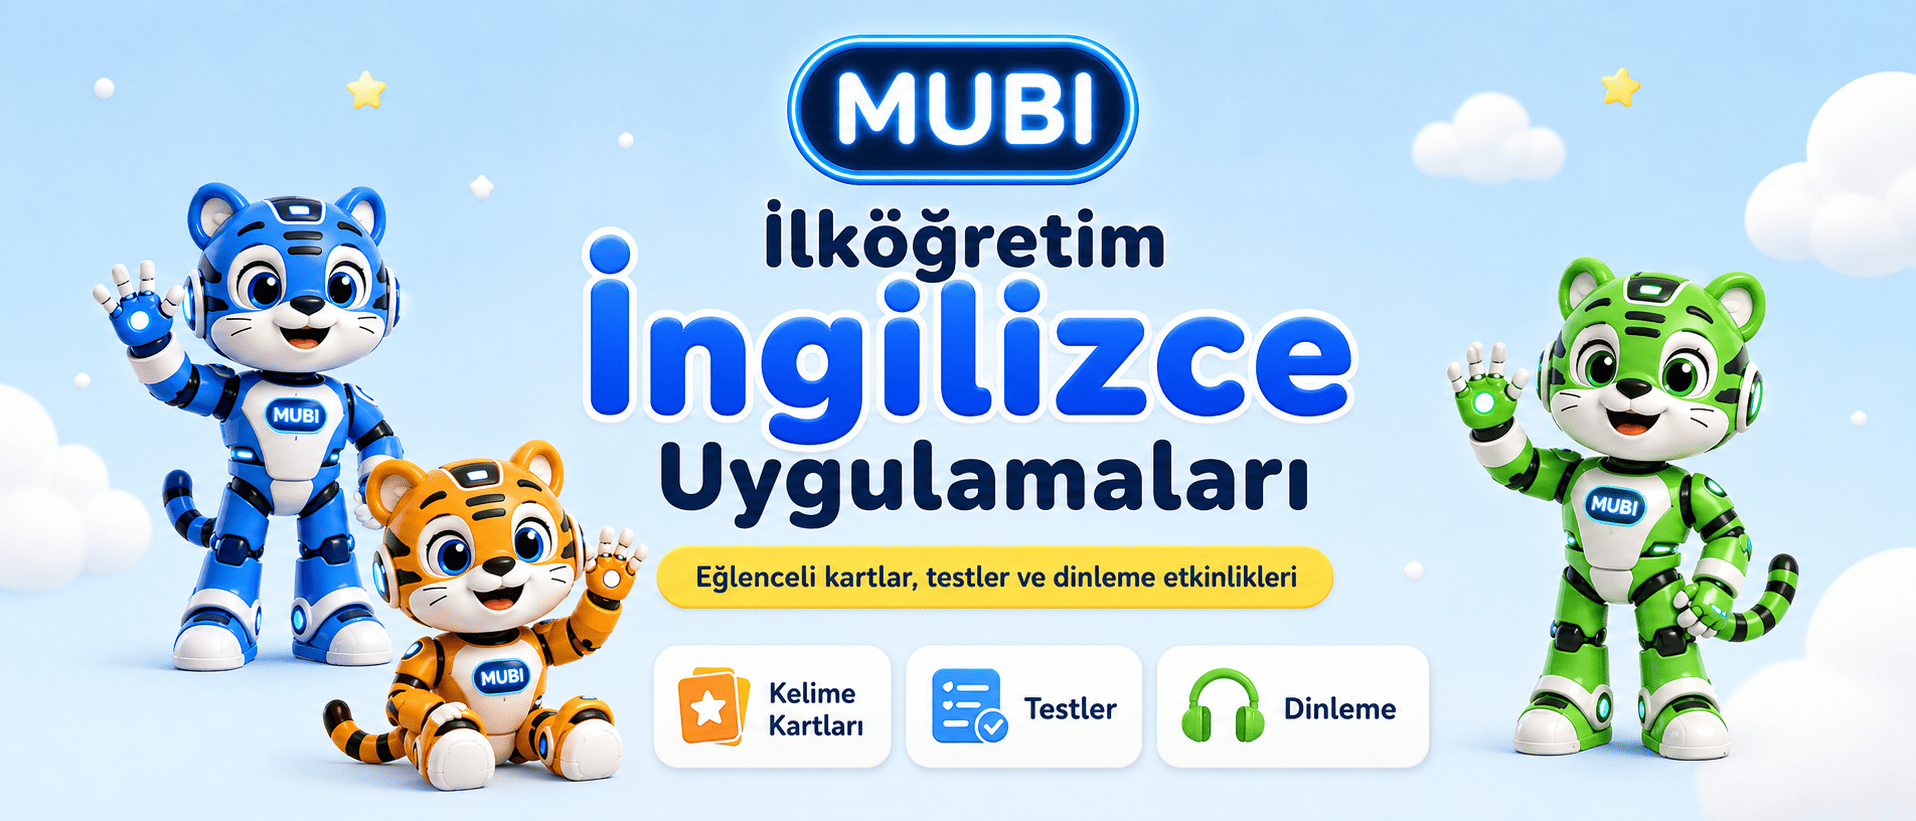
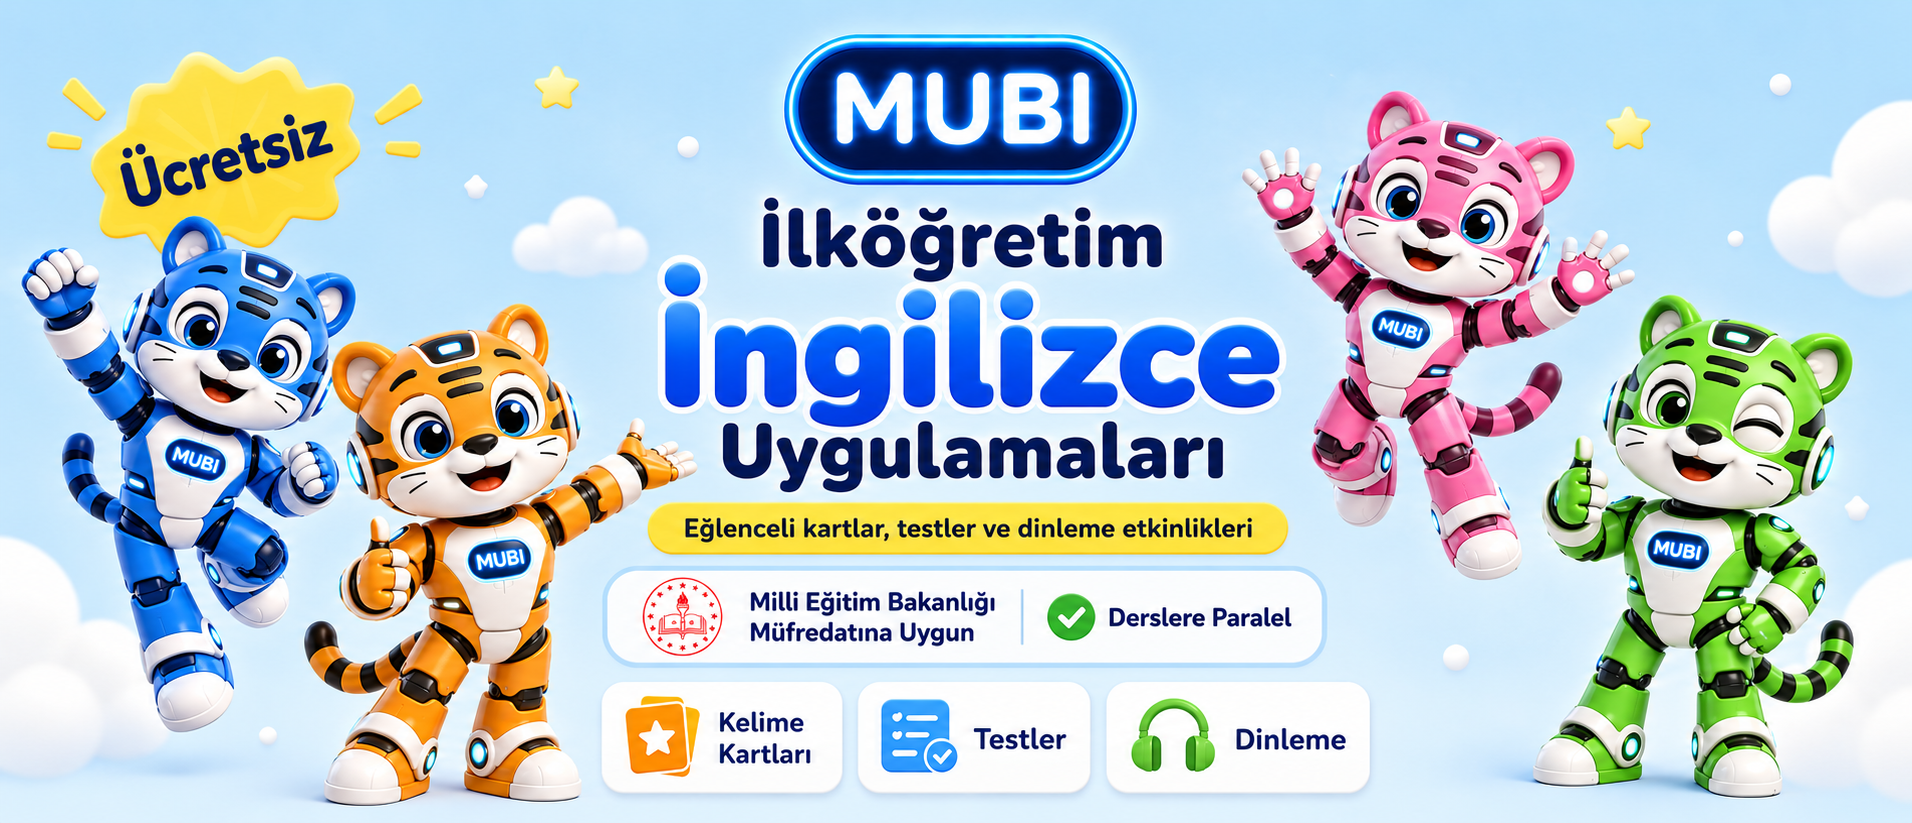
Improve MUBI homepage SEO

diff --git a/index.html b/index.html
@@ -2,46 +2,194 @@
 <html lang="tr">
 <head>
   <meta charset="UTF-8">
+
+  <!-- Mobile -->
   <meta name="viewport" content="width=device-width, initial-scale=1, viewport-fit=cover">
+
+  <!-- Primary SEO -->
+  <title>MUBİ | Ücretsiz İlköğretim İngilizce Uygulamaları</title>
+
+  <meta
+    name="description"
+    content="MUBİ ile 2, 3, 4, 5, 6, 7 ve 8. sınıf öğrencileri için ücretsiz İngilizce uygulamalarını keşfet. MEB müfredatına uygun, derslere paralel kelime, test ve İngilizce öğrenme etkinlikleri."
+  >
+
+  <meta
+    name="robots"
+    content="index, follow, max-image-preview:large, max-snippet:-1, max-video-preview:-1"
+  >
+
+  <meta
+    name="googlebot"
+    content="index, follow, max-image-preview:large, max-snippet:-1, max-video-preview:-1"
+  >
+
+  <!-- Canonical -->
+  <link rel="canonical" href="https://mubiapp.vercel.app/">
+
+  <!-- Theme -->
   <meta name="theme-color" content="#eaf6ff">
-  <meta name="description" content="MUBİ İlköğretim İngilizce Uygulamaları">
-  <title>MUBİ İngilizce Uygulamaları</title>
+
+  <!-- Open Graph / Facebook / WhatsApp -->
+  <meta property="og:type" content="website">
+  <meta property="og:locale" content="tr_TR">
+  <meta property="og:site_name" content="MUBİ">
+
+  <meta
+    property="og:title"
+    content="MUBİ | Ücretsiz İlköğretim İngilizce Uygulamaları"
+  >
+
+  <meta
+    property="og:description"
+    content="2. sınıftan 8. sınıfa kadar öğrenciler için ücretsiz, MEB müfredatına uygun ve derslere paralel İngilizce öğrenme uygulamaları."
+  >
+
+  <meta property="og:url" content="https://mubiapp.vercel.app/">
+
+  <meta
+    property="og:image"
+    content="https://mubiapp.vercel.app/assets/mubi-banner.png"
+  >
+
+  <meta
+    property="og:image:alt"
+    content="MUBİ İlköğretim İngilizce Uygulamaları"
+  >
+
+  <!-- X / Twitter -->
+  <meta name="twitter:card" content="summary_large_image">
+
+  <meta
+    name="twitter:title"
+    content="MUBİ | Ücretsiz İlköğretim İngilizce Uygulamaları"
+  >
+
+  <meta
+    name="twitter:description"
+    content="2-8. sınıf öğrencileri için ücretsiz ve MEB müfredatına uygun İngilizce öğrenme uygulamaları."
+  >
+
+  <meta
+    name="twitter:image"
+    content="https://mubiapp.vercel.app/assets/mubi-banner.png"
+  >
+
+  <!-- Structured Data / Schema.org -->
+  <script type="application/ld+json">
+  {
+    "@context": "https://schema.org",
+    "@type": "WebSite",
+    "name": "MUBİ",
+    "alternateName": "MUBİ İlköğretim İngilizce Uygulamaları",
+    "url": "https://mubiapp.vercel.app/",
+    "description": "2. sınıftan 8. sınıfa kadar öğrenciler için ücretsiz, MEB müfredatına uygun ve derslere paralel İngilizce öğrenme uygulamaları.",
+    "inLanguage": "tr-TR"
+  }
+  </script>
+
+  <!-- CSS -->
   <link rel="stylesheet" href="style.css">
 </head>
 
 <body>
+
   <main class="page">
+
     <div class="banner-wrap">
       <div class="banner">
-        <img src="assets/mubi-banner.png" alt="MUBİ İlköğretim İngilizce Uygulamaları">
+        <img
+          src="assets/mubi-banner.png"
+          alt="MUBİ ücretsiz ilköğretim İngilizce uygulamaları - 2. sınıftan 8. sınıfa kadar"
+        >
       </div>
     </div>
 
-    <section class="apps">
+    <section class="apps" aria-labelledby="main-title">
+
       <div class="section-head">
-        <h1>Sınıfını seç</h1>
-        <p>İngilizce uygulamanı seç ve hemen kullanmaya başla.</p>
+
+        <h1 id="main-title">
+          Ücretsiz İlköğretim İngilizce Uygulamaları
+        </h1>
+
+        <p>
+          MUBİ ile 2, 3, 4, 5, 6, 7 ve 8. sınıf öğrencileri için
+          hazırlanan İngilizce uygulamalarını ücretsiz kullan.
+          MEB müfredatına uygun ve derslere paralel içeriklerle
+          İngilizce kelimeleri öğren, test çöz ve İngilizceni geliştir.
+        </p>
+
       </div>
 
       <div id="appGrid" class="grid">
+
         <div class="loading">
           <div class="spinner"></div>
           Uygulamalar yükleniyor...
         </div>
+
       </div>
+
     </section>
+
   </main>
 
-  <div id="storeModal" class="modal" role="dialog" aria-modal="true" aria-labelledby="modalAppName">
+  <div
+    id="storeModal"
+    class="modal"
+    role="dialog"
+    aria-modal="true"
+    aria-labelledby="modalAppName"
+  >
+
     <div class="modal-box">
-      <img id="modalAppIcon" class="modal-icon" src="" alt="">
+
+      <img
+        id="modalAppIcon"
+        class="modal-icon"
+        src=""
+        alt=""
+      >
+
       <h2 id="modalAppName">MUBİ</h2>
-      <a id="appleStoreButton" class="store-button apple" href="#" target="_blank" rel="noopener noreferrer">App Store</a>
-      <a id="googleStoreButton" class="store-button google" href="#" target="_blank" rel="noopener noreferrer">Google Play</a>
-      <button id="closeModal" class="store-button close" type="button">Kapat</button>
+
+      <a
+        id="appleStoreButton"
+        class="store-button apple"
+        href="#"
+        target="_blank"
+        rel="noopener noreferrer"
+        aria-label="MUBİ uygulamasını App Store'dan indir"
+      >
+        App Store
+      </a>
+
+      <a
+        id="googleStoreButton"
+        class="store-button google"
+        href="#"
+        target="_blank"
+        rel="noopener noreferrer"
+        aria-label="MUBİ uygulamasını Google Play'den indir"
+      >
+        Google Play
+      </a>
+
+      <button
+        id="closeModal"
+        class="store-button close"
+        type="button"
+      >
+        Kapat
+      </button>
+
     </div>
+
   </div>
 
+  <!-- JavaScript -->
   <script src="app.js" defer></script>
+
 </body>
 </html>
